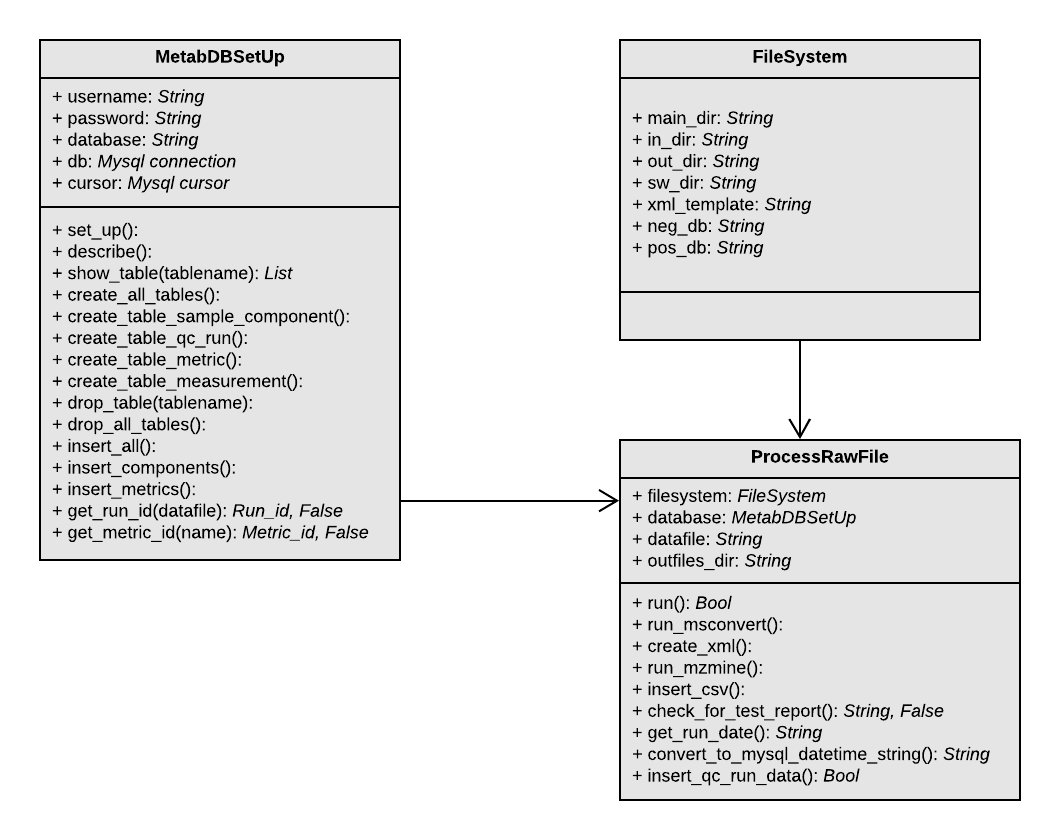
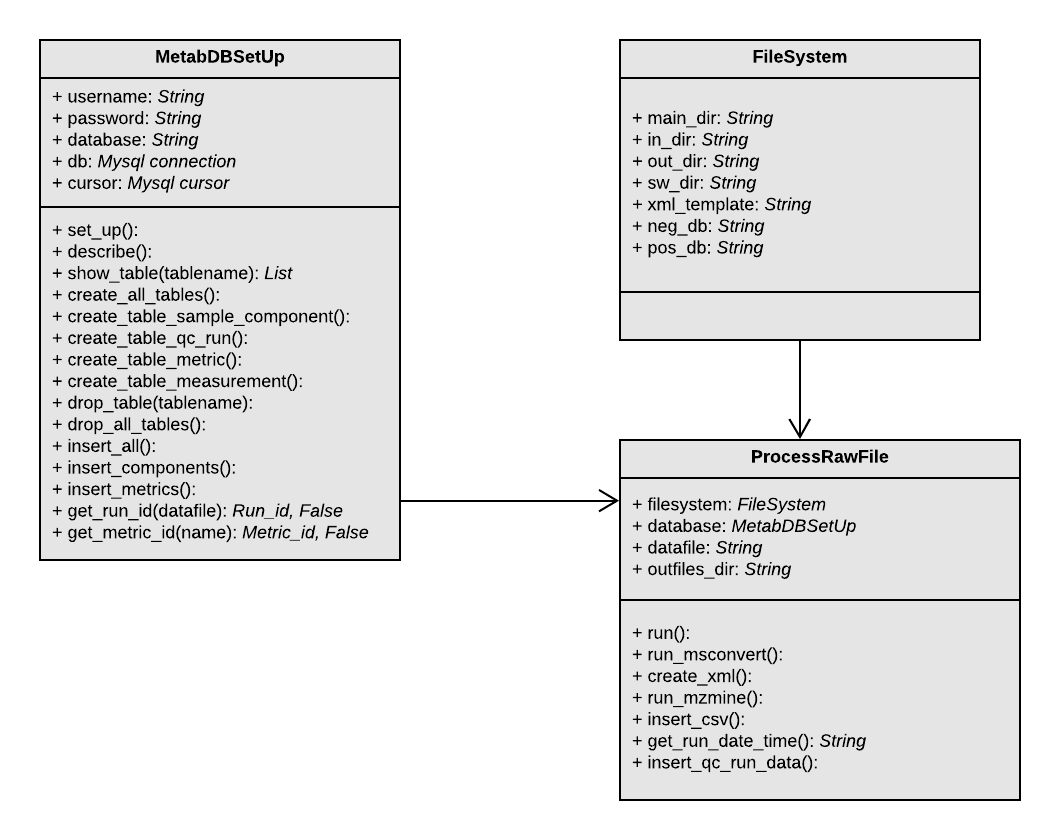
changed date time from raw

Changed region(s): [[0.5915, 0.5881, 0.9028, 0.9286], [0.9028, 0.8667, 0.934, 0.9286]]

diff --git a/Metabolomics_Process_Raw_Files.py b/Metabolomics_Process_Raw_Files.py
@@ -12,25 +12,19 @@ class ProcessRawFile:
         self.datafile = datafile
 
     def run(self):
+        # make and set folder for outfiles
+        os.chdir(self.fs.out_dir)
+        if not os.path.isdir(self.fs.out_dir + "\\" + self.datafile):
+            os.makedirs(self.datafile)
+        self.outfiles_dir = self.fs.out_dir + "\\" + self.datafile
 
-        if self.insert_qc_run_data():
-
-            # make and set folder for outfiles
-            os.chdir(self.fs.out_dir)
-            if not os.path.isdir(self.fs.out_dir + "\\" + self.datafile):
-                os.makedirs(self.datafile)
-            self.outfiles_dir = self.fs.out_dir + "\\" + self.datafile
-
-            # get and insert data
-            self.run_msconvert()
-            self.create_xml()
-            self.run_mzmine()
-            self.insert_csv()
-            print("Inserted Data for " + self.datafile)
-            return True
-        else:
-            print("No Test Report for raw file")
-            return False
+        # get and insert data
+        self.insert_qc_run_data()
+        self.run_msconvert()
+        self.create_xml()
+        self.run_mzmine()
+        self.insert_csv()
+        print("Inserted Data for " + self.datafile)
 
     def run_msconvert(self):
         '''Creates .mzXML files in OutFiles'''
@@ -125,77 +119,46 @@ class ProcessRawFile:
                                 print(e)
                                 print(i + 10)
 
-    def check_for_text_report(self):
-        text_files = glob.glob(fs.in_dir + '/QC_Metabolomics_*.txt')
-        for file in text_files:
-            if file[35:-37] == self.datafile:
-                return file
-        return False
-
-    def get_run_date(self):
-        check_file = self.check_for_text_report()
-        if check_file:
-            with open(check_file,'r') as infile:
-                for line in infile:
-                    in_data = line.strip().split(';')
-                    if in_data[0].strip() == 'Acquisition Date:':
-                        return self.convert_to_mysql_datetime_string(in_data[1].strip())
-        else:
-            return False
-
-    def convert_to_mysql_datetime_string(self, date):
-        # https://dev.mysql.com/doc/refman/8.0/en/date-and-time-literals.html
-        # YY-MM-DD HH:MM:SS
-        # 2014-02-28 08:14:57
-        # YYMMDDHHMMSS
-        # check again with batch input
-        meridian = date[-2:]
-        month = date[:2]
-        day = date[3:-15]
-        year = date[6:-12]
-        hh = date[9:-9]
-        mm = date[12:-6]
-        ss = date[15:-3]
-
-        if meridian.upper() == 'PM' and hh != '12':
-            hh = str(int(hh) + 12)
-
-        run_date = year + month + day + hh + mm + ss
-        return run_date
+    def get_run_date_time(self):
+        return self.datafile[-12:]
 
     def insert_qc_run_data(self):
 
-        run_date = self.get_run_date()
+        run_date = self.get_run_date_time()
 
-        if run_date:
-            # CONVERT('2014-02-28 08:14:57', DATETIME)
-            sql = "INSERT INTO metab_qc_run VALUES(NULL,'" + self.datafile + "', CONVERT('" + str(run_date) + "', DATETIME))"
-            try:
-                # add a check here or remove run_id to avoid accidental duplicates
-                self.db.cursor.execute(sql)
-            except Exception as e:
-                print(e)
+        # CONVERT('2014-02-28 08:14:57', DATETIME)
+        sql = "INSERT INTO metab_qc_run VALUES(NULL,'" + self.datafile + "', CONVERT('" + str(run_date) + "', DATETIME))"
+        try:
+            # add a check here or remove run_id to avoid accidental duplicates
+            self.db.cursor.execute(sql)
+        except Exception as e:
+            print(e)
 
-            self.db.db.commit()
-            return True
-        else:
-            return False
+        self.db.db.commit()
+        return True
 
 
 if __name__ == "__main__":
 
     user = "root"
-    password = "password"
+    password = "raja2417"
     database = "metabqc"
     db = MetabDBSetUp(user, password, database)
     fs = FileSystem(sys.argv[1])
     raw_files = glob.glob(fs.in_dir + '/QC_Metabolomics_*.raw')
-
+    print(len(raw_files))
 
     #LOOP Through all Raws in Folder
 
     for file in raw_files:
         id = file[35:-4]
-        raw = ProcessRawFile(id, fs, db)
-        raw.run()
+        if id == 'QC_Metabolomics_180608162749_180612103257':
+            print("Found")
+            raw = ProcessRawFile(id, fs, db)
+            raw.run()
+        else:
+            print("Skippy...!")
 
+
+    # Handles duel dates eg. QC_Metabolomics_180608162749_180612103257
+    # by using second date, uses full name in OutFiles folder

diff --git a/Metabolomics_Database_SetUp.py b/Metabolomics_Database_SetUp.py
@@ -214,7 +214,7 @@ class MetabDBSetUp:
 
 if __name__ == "__main__":
     user = "root"
-    password = "password"
+    password = "raja2417"
     database = "metabqc"
     db = MetabDBSetUp(user, password, database)
     db.set_up()
